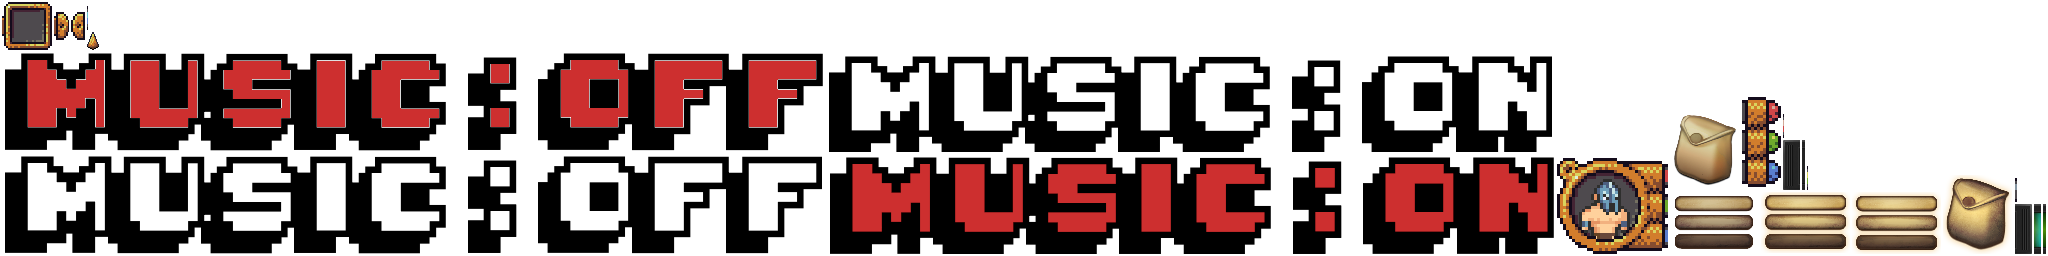
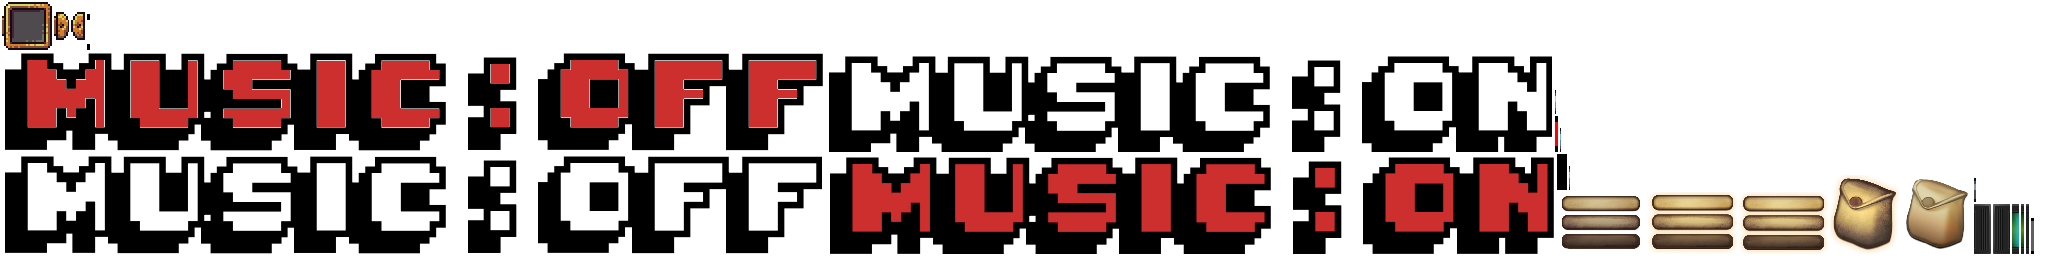
added slider files

Changed region(s): [[0.75, 0.375, 1.0, 1.0], [0.0312, 0.1562, 0.0625, 0.1875]]

diff --git a/libGDX_TuQuoque/core/src/com/tuquoque/game/screens/SettingsScreen.java b/libGDX_TuQuoque/core/src/com/tuquoque/game/screens/SettingsScreen.java
@@ -20,6 +20,7 @@ import com.tuquoque.game.GameStarter;
 import com.tuquoque.game.input.GameKeys;
 import com.tuquoque.game.input.InputListener;
 import com.tuquoque.game.input.InputManager;
+import com.tuquoque.game.ui.SettingsUI;
 
 /*
 * TODO: Preferences(LibGDX)
@@ -35,18 +36,19 @@ public class SettingsScreen extends AbstractScreen implements InputListener {
 
     @Override
     protected Table getScreenUI(Skin skin) {
-        return null;
+        return new SettingsUI(skin);
     }
 
     @Override
     public void show() {
+        super.show();
         ScreenUtils.clear(0, 0, 0, 1);
         inputManager.addInputListener(this);
     }
 
     @Override
     public void render(float delta) {
-        ScreenUtils.clear(0, 0, 0, 1);
+        ScreenUtils.clear(1, 1, 1, 1);
     }
 
     public void resize(int width, int height){
@@ -64,7 +66,7 @@ public class SettingsScreen extends AbstractScreen implements InputListener {
 
     @Override
     public void hide() {
-
+        super.hide();
     }
 
     @Override

diff --git a/libGDX_TuQuoque/core/src/com/tuquoque/game/ui/SettingsUI.java b/libGDX_TuQuoque/core/src/com/tuquoque/game/ui/SettingsUI.java
@@ -1,5 +1,7 @@
 package com.tuquoque.game.ui;
 
+import com.badlogic.gdx.Gdx;
+import com.badlogic.gdx.scenes.scene2d.Group;
 import com.badlogic.gdx.scenes.scene2d.ui.*;
 
 public class SettingsUI extends Table {
@@ -7,6 +9,10 @@ public class SettingsUI extends Table {
     public SettingsUI(Skin skin) {
         super(skin);
         setFillParent(true);
+
+        Slider musicVolume=new Slider(0,100,1,false,skin,"default");
+        add(musicVolume);
+
 
 
     }
